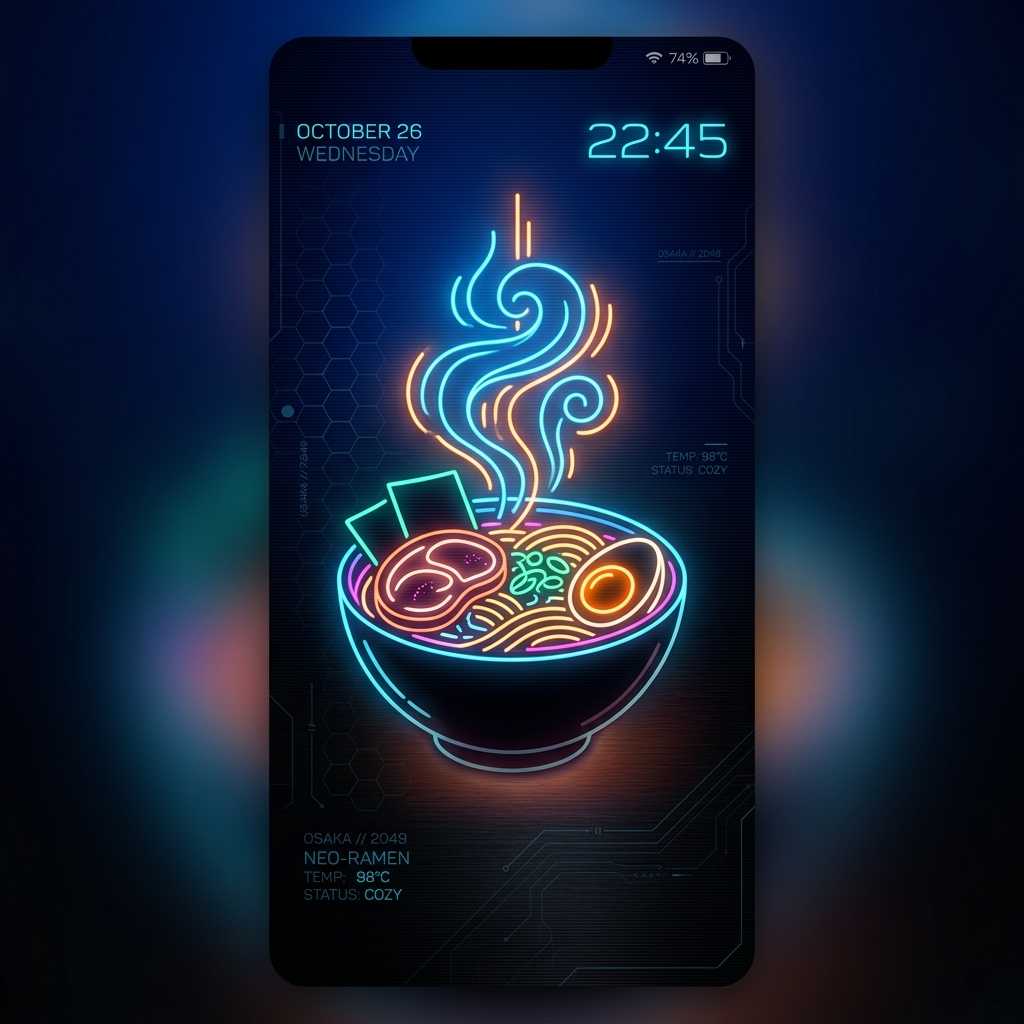
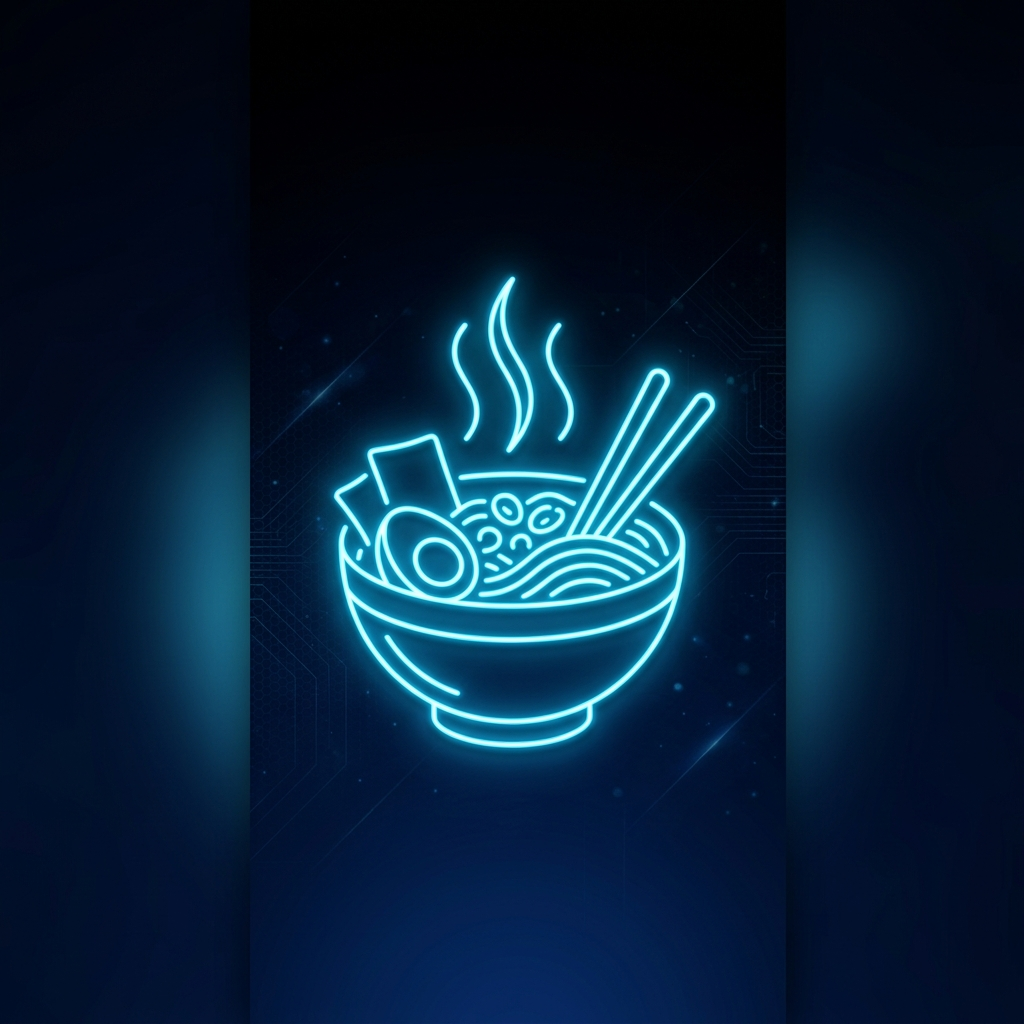
Replace player wallpaper with pure frameless background and restore cover layout

diff --git a/public/assets/css/style.css b/public/assets/css/style.css
@@ -499,8 +499,7 @@ html, body {
 #player-phone {
   position: fixed; inset: 0; z-index: 950;
   background-image: url('../images/player_wallpaper.png');
-  background-size: 100% 100%; /* Force fill the exact screen container bounds to prevent overflow/clipping */
-  background-repeat: no-repeat;
+  background-size: cover; /* Back to cover since the image itself is now clean wallpaper */
   background-position: center;
   display: flex; flex-direction: column;
   transition: transform 0.5s ease;